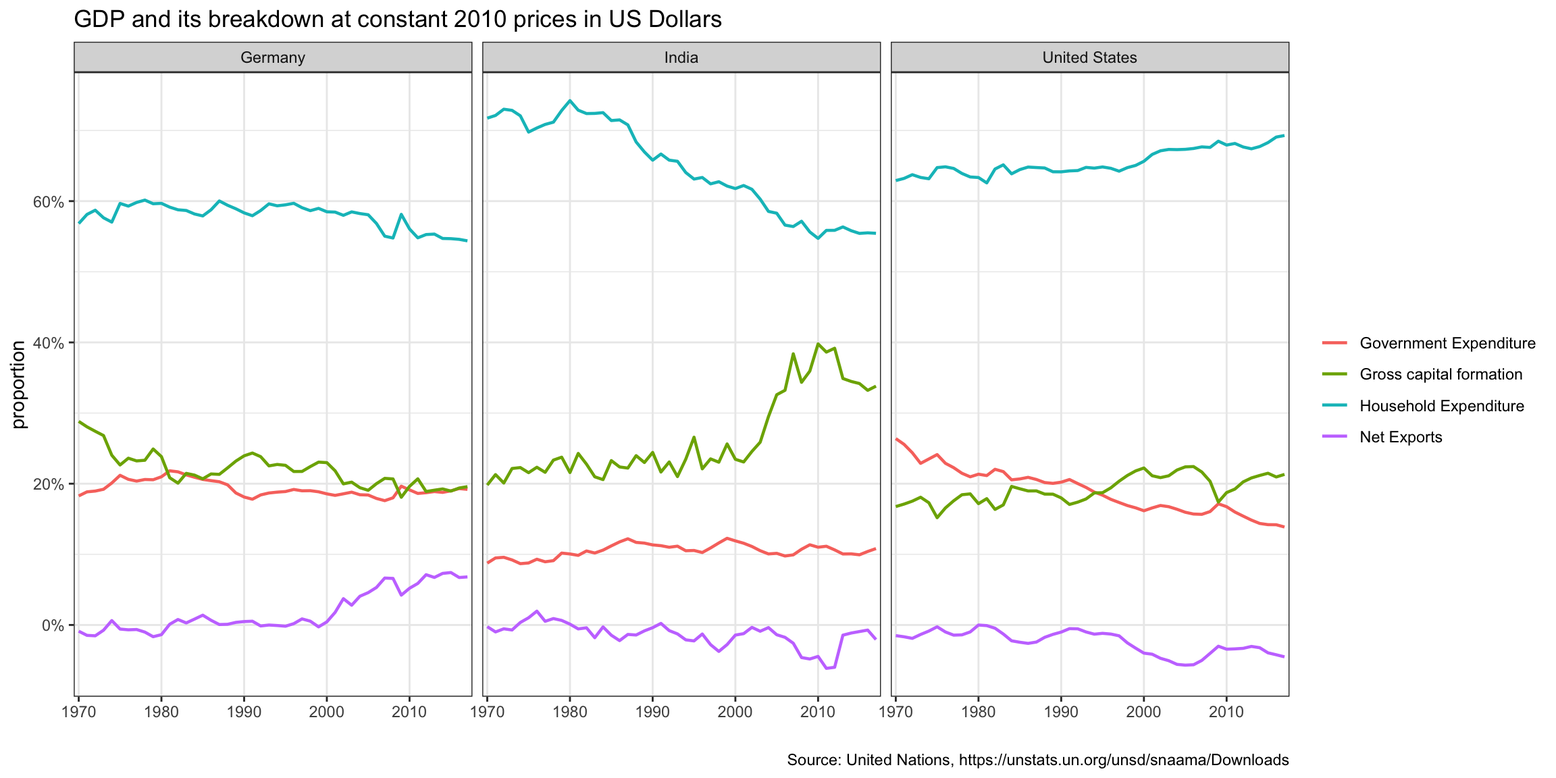
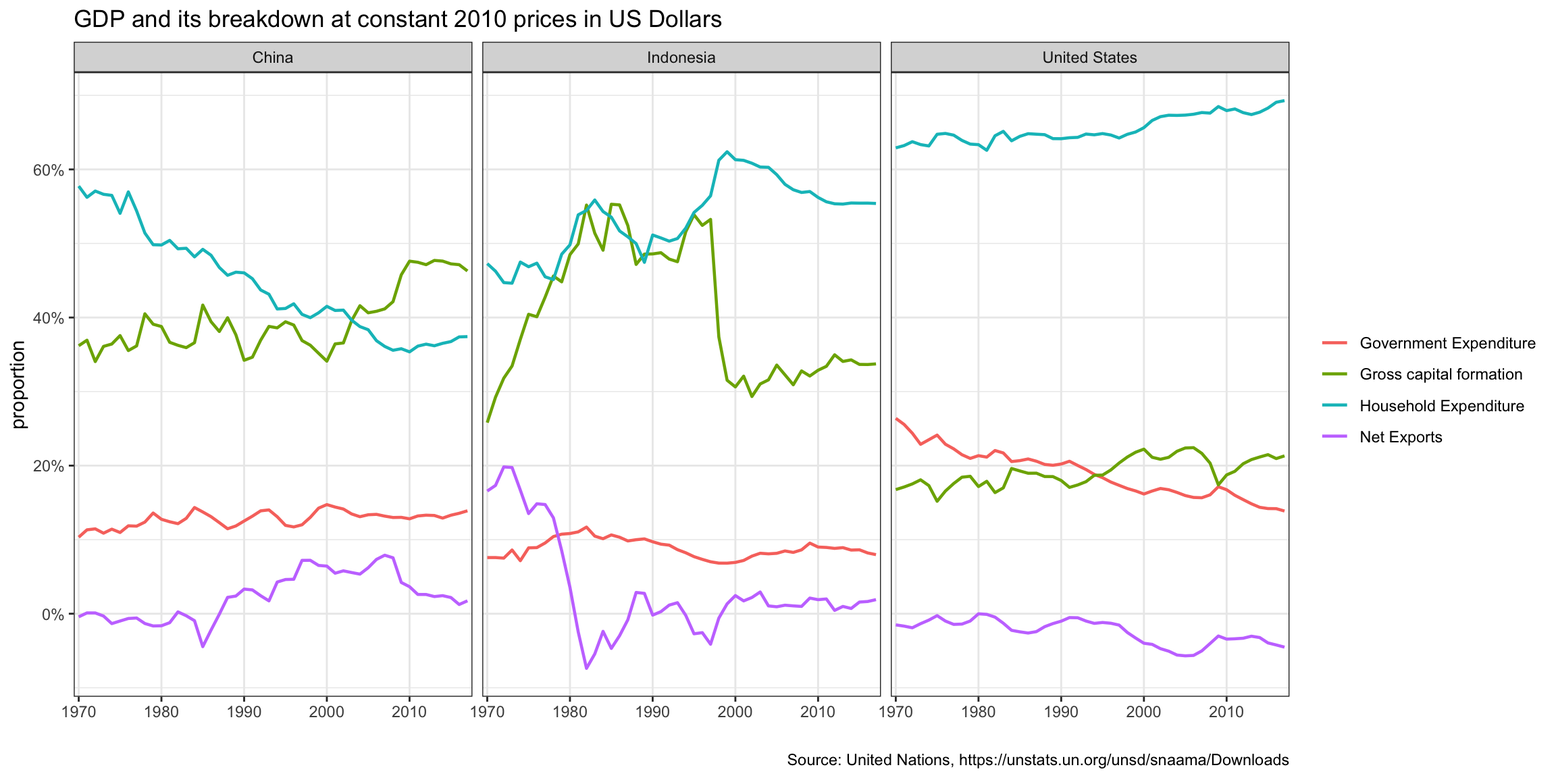
gdp analysis edit

diff --git a/content/blogs/gdp.html b/content/blogs/gdp.html
@@ -16,8 +16,9 @@ title: How does the GDP differ between developing and developed countries?
 <link href="/rmarkdown-libs/lightable/lightable.css" rel="stylesheet" />
 
 
-<div id="challenge-2gdp-components-over-time-and-among-countries" class="section level1">
-<h1>Challenge 2:GDP components over time and among countries</h1>
+<div id="gdp-components-over-time-and-among-countries" class="section level1">
+<h1>GDP components over time and among countries</h1>
+<p>For this analysis, we want to study the GDP components over time and among countriees.</p>
 <p>At the risk of oversimplifying things, the main components of gross domestic product, GDP are personal consumption (C), business investment (I), government spending (G) and net exports (exports - imports). You can read more about GDP and the different approaches in calculating at the <a href="https://en.wikipedia.org/wiki/Gross_domestic_product">Wikipedia GDP page</a>.</p>
 <p>The GDP data we will look at is from the <a href="https://unstats.un.org/unsd/snaama/Downloads">United Nations’ National Accounts Main Aggregates Database</a>, which contains estimates of total GDP and its components for all countries from 1970 to today. We will look at how GDP and its components have changed over time, and compare different countries and how much each component contributes to that country’s GDP. The file we will work with is <a href="http://unstats.un.org/unsd/amaapi/api/file/6">GDP and its breakdown at constant 2010 prices in US Dollars</a>.</p>
 <pre class="r"><code>UN_GDP_data  &lt;- read_excel(here::here(&quot;data&quot;, &quot;Download-GDPconstant-USD-countries.xls&quot;), # Excel filename
@@ -55,8 +56,8 @@ glimpse(tidy_GDP_data)</code></pre>
 ## $ year          &lt;chr&gt; &quot;1970&quot;, &quot;1971&quot;, &quot;1972&quot;, &quot;1973&quot;, &quot;1974&quot;, &quot;1975&quot;, &quot;1976&quot;,…
 ## $ values        &lt;dbl&gt; 5.56, 5.33, 5.20, 5.75, 6.15, 6.32, 6.37, 6.90, 7.09, 6…</code></pre>
 <pre class="r"><code># Let us compare GDP components for these 3 countries
-country_list &lt;- c(&quot;United States&quot;,&quot;India&quot;, &quot;Germany&quot;)</code></pre>
-<p>Plot Reproduction:</p>
+country_list &lt;- c(&quot;United States&quot;,&quot;Indonesia&quot;, &quot;China&quot;)</code></pre>
+<p>First, let’s focus on the GDP of 3 countries: China, Indonesia, United States. Our rationale for choosing these 3 countries is that we want to compare a highly developed country that is one of the countries that currently leads in the world economy in terms of GDP (United States). We want to also compare the GDP of a rapidly developing economy in Asia, China, and the GDP of an emerging market, Indonesia. Let’s first explore the different components of GDP of these 3 countries.</p>
 <pre class="r"><code># create plot
 tidy_GDP_data %&gt;% 
   # only visualise for countries in the country_list
@@ -85,15 +86,16 @@ tidy_GDP_data %&gt;%
   # bw theme
   theme_bw() +
   # labels (also for the legend)
-  labs(title = &quot;GDP components over time&quot;,
+  labs(title = &quot;United States leads in GDP, followed by China then Indonesia&quot;,
        subtitle = &quot;In constant 2010 USD&quot;,
        x = &quot;&quot;,
        y = &quot;Billion US$&quot;,
        color = &quot;Components of GDP&quot;)</code></pre>
-<p><img src="/blogs/gdp_files/figure-html/challenge_2_1-1.png" width="864" style="display: block; margin: auto;" /></p>
-<p>original Plot:</p>
-<p><img src="/Users/brigitaangkasa/Desktop/1. London Business School/1. Applied Stats with R/my_website1/images/gdp1.png" width="100%" style="display: block; margin: auto;" /></p>
-<p>Secondly, recall that GDP is the sum of Household Expenditure (Consumption <em>C</em>), Gross Capital Formation (business investment <em>I</em>), Government Expenditure (G) and Net Exports (exports - imports). Even though there is an indicator <code>Gross Domestic Product (GDP)</code> in the dataframe, we calculate it given its components discussed above.</p>
+<p><img src="/blogs/gdp_files/figure-html/gdp_over-time-1.png" width="864" style="display: block; margin: auto;" /></p>
+<p>From the graph above, let’s first analyze the GDP of the United States (US). We can see that all components of the have been increasing from 1970. This supports the fact that the US has been the world’s largest economy, accounting for approximately a quarter of the world’s GDP. We can also see that large component of the GDP is household expenditure.</p>
+<p>Moving on to China, we can see that the rate of growth for each component has accelerated from 2000. This is supported by the fact that the country has been rapidly developing over the years, one of which is technological innovations. Technology companies in China are quickly gaining their position as market leaders (ex. Huawei).</p>
+<p>Last but not least, lets analyze Indonesia’s GDP growth over the years. In this chart the growth of Indonesia’s company is not as apparent because of the large GDP of China and the United States. Although Indonesia’s GDP looks small in comparison to the GDP of China and United States there is large potential for exponential growth in the near future as it is the country with the 4th largest population and a rising middle class population.</p>
+<p>Nexts, recall that GDP is the sum of Household Expenditure (Consumption <em>C</em>), Gross Capital Formation (business investment <em>I</em>), Government Expenditure (G) and Net Exports (exports - imports). Even though there is an indicator <code>Gross Domestic Product (GDP)</code> in the dataframe, let’s compare the results by calculating it given its components discussed above.</p>
 <pre class="r"><code># wrangle data and calculate GDP
 tidy_GDP_data_2 &lt;- tidy_GDP_data %&gt;% 
   # bring in wide format to easily calculate GDP
@@ -105,11 +107,11 @@ tidy_GDP_data_2 &lt;- tidy_GDP_data %&gt;%
 
 # summary statistics
 mosaic::favstats(~`Percentage Change`, data=tidy_GDP_data_2) %&gt;% 
-  kbl(caption = &quot;overall summary statistics for the % difference between calculated and included GDP&quot;) %&gt;%
+  kbl(caption = &quot;Overall summary statistics for the % difference between calculated and included GDP&quot;) %&gt;%
   kable_styling(bootstrap_options = c(&quot;striped&quot;, &quot;hover&quot;, &quot;condensed&quot;, &quot;responsive&quot;)) # have a nice HTML table</code></pre>
 <table class="table table-striped table-hover table-condensed table-responsive" style="margin-left: auto; margin-right: auto;">
 <caption>
-(#tab:GDP_calculation)overall summary statistics for the % difference between calculated and included GDP
+Overall summary statistics for the % difference between calculated and included GDP
 </caption>
 <thead>
 <tr>
@@ -178,12 +180,8 @@ missing
 </tr>
 </tbody>
 </table>
-<pre class="r"><code># summary statistics
-#mosaic::favstats(`Percentage Change`~year, data=tidy_GDP_data_2) %&gt;% 
-#  kbl(caption = &quot;summary statistics for the % difference between calculated and included GDP per year&quot;) %&gt;%
-#  kable_styling(bootstrap_options = c(&quot;striped&quot;, &quot;hover&quot;, &quot;condensed&quot;, &quot;responsive&quot;)) # have a nice HTML table</code></pre>
-<p>As we can see, the % difference of the two GDPs is in most cases around 0, i.e. both GDPs are in most cases approximately the same.</p>
-<p>Plot Reproduction:</p>
+<p>As we can see, the % difference of the two GDPs is in most cases around 0, i.e. both GDPs are in most cases approximately the same. Thus, we can use the component parts of the GDP to accurately estimate the GDP.</p>
+<p>Let’s further analyze the GDP breakdown, by looking at the proportion each GDP component part accounts for the total GDP.</p>
 <pre class="r"><code># prepare data and plot
 tidy_GDP_data_2 %&gt;% 
   # calculate the percentage values
@@ -221,5 +219,15 @@ tidy_GDP_data_2 %&gt;%
        y = &quot;proportion&quot;) +
   # no legend title
   theme(legend.title = element_blank())</code></pre>
-<p><img src="/blogs/gdp_files/figure-html/challenge_2_2-1.png" width="1152" style="display: block; margin: auto;" /></p>
+<p><img src="/blogs/gdp_files/figure-html/proportion_gdp-1.png" width="1152" style="display: block; margin: auto;" />
+First, let’s have a look at the net export proportion. In China, there seems to be a trend towards equal number of exports and imports, then starting from 1985 the trend has shifted to higher exports. However, net exports can be seen to slowly decrease over the last few years, and there seems to be an equal number of exports and imports over the last few years. Indonesia relied heavily on exports from the period of 1970 to 1980, but it can be seen that from 1980 onwards the number of imports and exports have reached an equal amounts of imports and exports. In the United States, there is a trend towards higher imports as opposed to lower exports this may be accounted by the fact that they are one of the largest economies in the world.</p>
+<p>Regarding the proportion of gross capital formation, i.e. investments, we can see that there is a sharp rise in Indonesia between 1970 to 1985. We can also see a sharp drop from 1995 to 2000 this may be because of high levels of corruption in the country when Suharto was president. The GCF in Indonesia is predicted to increase in next few years as the government is currently focusing on plans to improve the poor infrastructure of the country. Both in the US and China, the proportion of GCF is also slightly rising.</p>
+<p>The proportion of Government expenditure is quite steady in Indonesia and China, whereas it dropped in the US.</p>
+<p>Finally, household expenditure dropped significantly in China (with the investments going up), wheres they are steady in Germany and rising in the US and Indonesia.</p>
+<p>All in all, we can conclude the following:</p>
+<ul>
+<li>In China, gross capital formation has increased while household expenditure have decreased.</li>
+<li>In Indonesia, businesses are more and more investing, while the household expenditure rate have dropped over the last 10 years.</li>
+<li>While government expenditure rates drop, households and businesses (have to) invest more in the US. This can be well explained by the rise of neo-liberalism and a lower influence of the public sector</li>
+</ul>
 </div>

diff --git a/public/blogs/gdp/index.html b/public/blogs/gdp/index.html
@@ -81,8 +81,9 @@
 <link href="/rmarkdown-libs/lightable/lightable.css" rel="stylesheet" />
 
 
-<div id="challenge-2gdp-components-over-time-and-among-countries" class="section level1">
-<h1>Challenge 2:GDP components over time and among countries</h1>
+<div id="gdp-components-over-time-and-among-countries" class="section level1">
+<h1>GDP components over time and among countries</h1>
+<p>For this analysis, we want to study the GDP components over time and among countriees.</p>
 <p>At the risk of oversimplifying things, the main components of gross domestic product, GDP are personal consumption (C), business investment (I), government spending (G) and net exports (exports - imports). You can read more about GDP and the different approaches in calculating at the <a href="https://en.wikipedia.org/wiki/Gross_domestic_product">Wikipedia GDP page</a>.</p>
 <p>The GDP data we will look at is from the <a href="https://unstats.un.org/unsd/snaama/Downloads">United Nations’ National Accounts Main Aggregates Database</a>, which contains estimates of total GDP and its components for all countries from 1970 to today. We will look at how GDP and its components have changed over time, and compare different countries and how much each component contributes to that country’s GDP. The file we will work with is <a href="http://unstats.un.org/unsd/amaapi/api/file/6">GDP and its breakdown at constant 2010 prices in US Dollars</a>.</p>
 <pre class="r"><code>UN_GDP_data  &lt;- read_excel(here::here(&quot;data&quot;, &quot;Download-GDPconstant-USD-countries.xls&quot;), # Excel filename
@@ -120,8 +121,8 @@ glimpse(tidy_GDP_data)</code></pre>
 ## $ year          &lt;chr&gt; &quot;1970&quot;, &quot;1971&quot;, &quot;1972&quot;, &quot;1973&quot;, &quot;1974&quot;, &quot;1975&quot;, &quot;1976&quot;,…
 ## $ values        &lt;dbl&gt; 5.56, 5.33, 5.20, 5.75, 6.15, 6.32, 6.37, 6.90, 7.09, 6…</code></pre>
 <pre class="r"><code># Let us compare GDP components for these 3 countries
-country_list &lt;- c(&quot;United States&quot;,&quot;India&quot;, &quot;Germany&quot;)</code></pre>
-<p>Plot Reproduction:</p>
+country_list &lt;- c(&quot;United States&quot;,&quot;Indonesia&quot;, &quot;China&quot;)</code></pre>
+<p>First, let’s focus on the GDP of 3 countries: China, Indonesia, United States. Our rationale for choosing these 3 countries is that we want to compare a highly developed country that is one of the countries that currently leads in the world economy in terms of GDP (United States). We want to also compare the GDP of a rapidly developing economy in Asia, China, and the GDP of an emerging market, Indonesia. Let’s first explore the different components of GDP of these 3 countries.</p>
 <pre class="r"><code># create plot
 tidy_GDP_data %&gt;% 
   # only visualise for countries in the country_list
@@ -150,15 +151,16 @@ tidy_GDP_data %&gt;%
   # bw theme
   theme_bw() +
   # labels (also for the legend)
-  labs(title = &quot;GDP components over time&quot;,
+  labs(title = &quot;United States leads in GDP, followed by China then Indonesia&quot;,
        subtitle = &quot;In constant 2010 USD&quot;,
        x = &quot;&quot;,
        y = &quot;Billion US$&quot;,
        color = &quot;Components of GDP&quot;)</code></pre>
-<p><img src="/blogs/gdp_files/figure-html/challenge_2_1-1.png" width="864" style="display: block; margin: auto;" /></p>
-<p>original Plot:</p>
-<p><img src="/Users/brigitaangkasa/Desktop/1. London Business School/1. Applied Stats with R/my_website1/images/gdp1.png" width="100%" style="display: block; margin: auto;" /></p>
-<p>Secondly, recall that GDP is the sum of Household Expenditure (Consumption <em>C</em>), Gross Capital Formation (business investment <em>I</em>), Government Expenditure (G) and Net Exports (exports - imports). Even though there is an indicator <code>Gross Domestic Product (GDP)</code> in the dataframe, we calculate it given its components discussed above.</p>
+<p><img src="/blogs/gdp_files/figure-html/gdp_over-time-1.png" width="864" style="display: block; margin: auto;" /></p>
+<p>From the graph above, let’s first analyze the GDP of the United States (US). We can see that all components of the have been increasing from 1970. This supports the fact that the US has been the world’s largest economy, accounting for approximately a quarter of the world’s GDP. We can also see that large component of the GDP is household expenditure.</p>
+<p>Moving on to China, we can see that the rate of growth for each component has accelerated from 2000. This is supported by the fact that the country has been rapidly developing over the years, one of which is technological innovations. Technology companies in China are quickly gaining their position as market leaders (ex. Huawei).</p>
+<p>Last but not least, lets analyze Indonesia’s GDP growth over the years. In this chart the growth of Indonesia’s company is not as apparent because of the large GDP of China and the United States. Although Indonesia’s GDP looks small in comparison to the GDP of China and United States there is large potential for exponential growth in the near future as it is the country with the 4th largest population and a rising middle class population.</p>
+<p>Nexts, recall that GDP is the sum of Household Expenditure (Consumption <em>C</em>), Gross Capital Formation (business investment <em>I</em>), Government Expenditure (G) and Net Exports (exports - imports). Even though there is an indicator <code>Gross Domestic Product (GDP)</code> in the dataframe, let’s compare the results by calculating it given its components discussed above.</p>
 <pre class="r"><code># wrangle data and calculate GDP
 tidy_GDP_data_2 &lt;- tidy_GDP_data %&gt;% 
   # bring in wide format to easily calculate GDP
@@ -170,11 +172,11 @@ tidy_GDP_data_2 &lt;- tidy_GDP_data %&gt;%
 
 # summary statistics
 mosaic::favstats(~`Percentage Change`, data=tidy_GDP_data_2) %&gt;% 
-  kbl(caption = &quot;overall summary statistics for the % difference between calculated and included GDP&quot;) %&gt;%
+  kbl(caption = &quot;Overall summary statistics for the % difference between calculated and included GDP&quot;) %&gt;%
   kable_styling(bootstrap_options = c(&quot;striped&quot;, &quot;hover&quot;, &quot;condensed&quot;, &quot;responsive&quot;)) # have a nice HTML table</code></pre>
 <table class="table table-striped table-hover table-condensed table-responsive" style="margin-left: auto; margin-right: auto;">
 <caption>
-(#tab:GDP_calculation)overall summary statistics for the % difference between calculated and included GDP
+Overall summary statistics for the % difference between calculated and included GDP
 </caption>
 <thead>
 <tr>
@@ -243,12 +245,8 @@ missing
 </tr>
 </tbody>
 </table>
-<pre class="r"><code># summary statistics
-#mosaic::favstats(`Percentage Change`~year, data=tidy_GDP_data_2) %&gt;% 
-#  kbl(caption = &quot;summary statistics for the % difference between calculated and included GDP per year&quot;) %&gt;%
-#  kable_styling(bootstrap_options = c(&quot;striped&quot;, &quot;hover&quot;, &quot;condensed&quot;, &quot;responsive&quot;)) # have a nice HTML table</code></pre>
-<p>As we can see, the % difference of the two GDPs is in most cases around 0, i.e. both GDPs are in most cases approximately the same.</p>
-<p>Plot Reproduction:</p>
+<p>As we can see, the % difference of the two GDPs is in most cases around 0, i.e. both GDPs are in most cases approximately the same. Thus, we can use the component parts of the GDP to accurately estimate the GDP.</p>
+<p>Let’s further analyze the GDP breakdown, by looking at the proportion each GDP component part accounts for the total GDP.</p>
 <pre class="r"><code># prepare data and plot
 tidy_GDP_data_2 %&gt;% 
   # calculate the percentage values
@@ -286,7 +284,17 @@ tidy_GDP_data_2 %&gt;%
        y = &quot;proportion&quot;) +
   # no legend title
   theme(legend.title = element_blank())</code></pre>
-<p><img src="/blogs/gdp_files/figure-html/challenge_2_2-1.png" width="1152" style="display: block; margin: auto;" /></p>
+<p><img src="/blogs/gdp_files/figure-html/proportion_gdp-1.png" width="1152" style="display: block; margin: auto;" />
+First, let’s have a look at the net export proportion. In China, there seems to be a trend towards equal number of exports and imports, then starting from 1985 the trend has shifted to higher exports. However, net exports can be seen to slowly decrease over the last few years, and there seems to be an equal number of exports and imports over the last few years. Indonesia relied heavily on exports from the period of 1970 to 1980, but it can be seen that from 1980 onwards the number of imports and exports have reached an equal amounts of imports and exports. In the United States, there is a trend towards higher imports as opposed to lower exports this may be accounted by the fact that they are one of the largest economies in the world.</p>
+<p>Regarding the proportion of gross capital formation, i.e. investments, we can see that there is a sharp rise in Indonesia between 1970 to 1985. We can also see a sharp drop from 1995 to 2000 this may be because of high levels of corruption in the country when Suharto was president. The GCF in Indonesia is predicted to increase in next few years as the government is currently focusing on plans to improve the poor infrastructure of the country. Both in the US and China, the proportion of GCF is also slightly rising.</p>
+<p>The proportion of Government expenditure is quite steady in Indonesia and China, whereas it dropped in the US.</p>
+<p>Finally, household expenditure dropped significantly in China (with the investments going up), wheres they are steady in Germany and rising in the US and Indonesia.</p>
+<p>All in all, we can conclude the following:</p>
+<ul>
+<li>In China, gross capital formation has increased while household expenditure have decreased.</li>
+<li>In Indonesia, businesses are more and more investing, while the household expenditure rate have dropped over the last 10 years.</li>
+<li>While government expenditure rates drop, households and businesses (have to) invest more in the US. This can be well explained by the rise of neo-liberalism and a lower influence of the public sector</li>
+</ul>
 </div>
 
                         </div>

diff --git a/content/blogs/climatechange.html b/content/blogs/climatechange.html
@@ -218,7 +218,7 @@ glance(model1) %&gt;%
   kable_styling(bootstrap_options = c(&quot;striped&quot;, &quot;hover&quot;, &quot;condensed&quot;, &quot;responsive&quot;))</code></pre>
 <table class="table table-striped table-hover table-condensed table-responsive" style="margin-left: auto; margin-right: auto;">
 <caption>
-(#tab:fit_model_monthly)Summary Statistics of Linear Regression Model (Monthly)
+Summary Statistics of Linear Regression Model (Monthly)
 </caption>
 <thead>
 <tr>
@@ -310,7 +310,7 @@ tidy(model1) %&gt;%
   kable_styling(bootstrap_options = c(&quot;striped&quot;, &quot;hover&quot;, &quot;condensed&quot;, &quot;responsive&quot;))</code></pre>
 <table class="table table-striped table-hover table-condensed table-responsive" style="margin-left: auto; margin-right: auto;">
 <caption>
-(#tab:model_monthly_analysis)p-values of Linear Regression Model (Monthly)
+p-values of Linear Regression Model (Monthly)
 </caption>
 <thead>
 <tr>
@@ -455,7 +455,7 @@ glance(model2) %&gt;%
   kable_styling(bootstrap_options = c(&quot;striped&quot;, &quot;hover&quot;, &quot;condensed&quot;, &quot;responsive&quot;))</code></pre>
 <table class="table table-striped table-hover table-condensed table-responsive" style="margin-left: auto; margin-right: auto;">
 <caption>
-(#tab:fit_model_annual)Summary Statistics of Linear Regression Model (Annual)
+Summary Statistics of Linear Regression Model (Annual)
 </caption>
 <thead>
 <tr>
@@ -547,7 +547,7 @@ tidy(model2) %&gt;%
   kable_styling(bootstrap_options = c(&quot;striped&quot;, &quot;hover&quot;, &quot;condensed&quot;, &quot;responsive&quot;))</code></pre>
 <table class="table table-striped table-hover table-condensed table-responsive" style="margin-left: auto; margin-right: auto;">
 <caption>
-(#tab:model_annual_analysis)p-values of Linear Regression Model (Annual)
+p-values of Linear Regression Model (Annual)
 </caption>
 <thead>
 <tr>
@@ -639,7 +639,7 @@ formula_ci %&gt;%
   kable_styling(bootstrap_options = c(&quot;striped&quot;, &quot;hover&quot;, &quot;condensed&quot;, &quot;responsive&quot;)) # have a nice HTML table</code></pre>
 <table class="table table-striped table-hover table-condensed table-responsive" style="margin-left: auto; margin-right: auto;">
 <caption>
-(#tab:calculate_CI_using_formula)confidence interval for mean delta since 2011 (formula)
+confidence interval for mean delta since 2011 (formula)
 </caption>
 <thead>
 <tr>
@@ -695,7 +695,7 @@ percentile_ci %&gt;%
   kable_styling(bootstrap_options = c(&quot;striped&quot;, &quot;hover&quot;, &quot;condensed&quot;, &quot;responsive&quot;)) # have a nice HTML table</code></pre>
 <table class="table table-striped table-hover table-condensed table-responsive" style="margin-left: auto; margin-right: auto;">
 <caption>
-(#tab:calculate_CI_using_bootstrap)confidence interval for mean delta since 2011 (simulated)
+confidence interval for mean delta since 2011 (simulated)
 </caption>
 <thead>
 <tr>

diff --git a/public/blogs/climatechange/index.html b/public/blogs/climatechange/index.html
@@ -283,7 +283,7 @@ glance(model1) %&gt;%
   kable_styling(bootstrap_options = c(&quot;striped&quot;, &quot;hover&quot;, &quot;condensed&quot;, &quot;responsive&quot;))</code></pre>
 <table class="table table-striped table-hover table-condensed table-responsive" style="margin-left: auto; margin-right: auto;">
 <caption>
-(#tab:fit_model_monthly)Summary Statistics of Linear Regression Model (Monthly)
+Summary Statistics of Linear Regression Model (Monthly)
 </caption>
 <thead>
 <tr>
@@ -375,7 +375,7 @@ tidy(model1) %&gt;%
   kable_styling(bootstrap_options = c(&quot;striped&quot;, &quot;hover&quot;, &quot;condensed&quot;, &quot;responsive&quot;))</code></pre>
 <table class="table table-striped table-hover table-condensed table-responsive" style="margin-left: auto; margin-right: auto;">
 <caption>
-(#tab:model_monthly_analysis)p-values of Linear Regression Model (Monthly)
+p-values of Linear Regression Model (Monthly)
 </caption>
 <thead>
 <tr>
@@ -520,7 +520,7 @@ glance(model2) %&gt;%
   kable_styling(bootstrap_options = c(&quot;striped&quot;, &quot;hover&quot;, &quot;condensed&quot;, &quot;responsive&quot;))</code></pre>
 <table class="table table-striped table-hover table-condensed table-responsive" style="margin-left: auto; margin-right: auto;">
 <caption>
-(#tab:fit_model_annual)Summary Statistics of Linear Regression Model (Annual)
+Summary Statistics of Linear Regression Model (Annual)
 </caption>
 <thead>
 <tr>
@@ -612,7 +612,7 @@ tidy(model2) %&gt;%
   kable_styling(bootstrap_options = c(&quot;striped&quot;, &quot;hover&quot;, &quot;condensed&quot;, &quot;responsive&quot;))</code></pre>
 <table class="table table-striped table-hover table-condensed table-responsive" style="margin-left: auto; margin-right: auto;">
 <caption>
-(#tab:model_annual_analysis)p-values of Linear Regression Model (Annual)
+p-values of Linear Regression Model (Annual)
 </caption>
 <thead>
 <tr>
@@ -704,7 +704,7 @@ formula_ci %&gt;%
   kable_styling(bootstrap_options = c(&quot;striped&quot;, &quot;hover&quot;, &quot;condensed&quot;, &quot;responsive&quot;)) # have a nice HTML table</code></pre>
 <table class="table table-striped table-hover table-condensed table-responsive" style="margin-left: auto; margin-right: auto;">
 <caption>
-(#tab:calculate_CI_using_formula)confidence interval for mean delta since 2011 (formula)
+confidence interval for mean delta since 2011 (formula)
 </caption>
 <thead>
 <tr>
@@ -760,7 +760,7 @@ percentile_ci %&gt;%
   kable_styling(bootstrap_options = c(&quot;striped&quot;, &quot;hover&quot;, &quot;condensed&quot;, &quot;responsive&quot;)) # have a nice HTML table</code></pre>
 <table class="table table-striped table-hover table-condensed table-responsive" style="margin-left: auto; margin-right: auto;">
 <caption>
-(#tab:calculate_CI_using_bootstrap)confidence interval for mean delta since 2011 (simulated)
+confidence interval for mean delta since 2011 (simulated)
 </caption>
 <thead>
 <tr>
